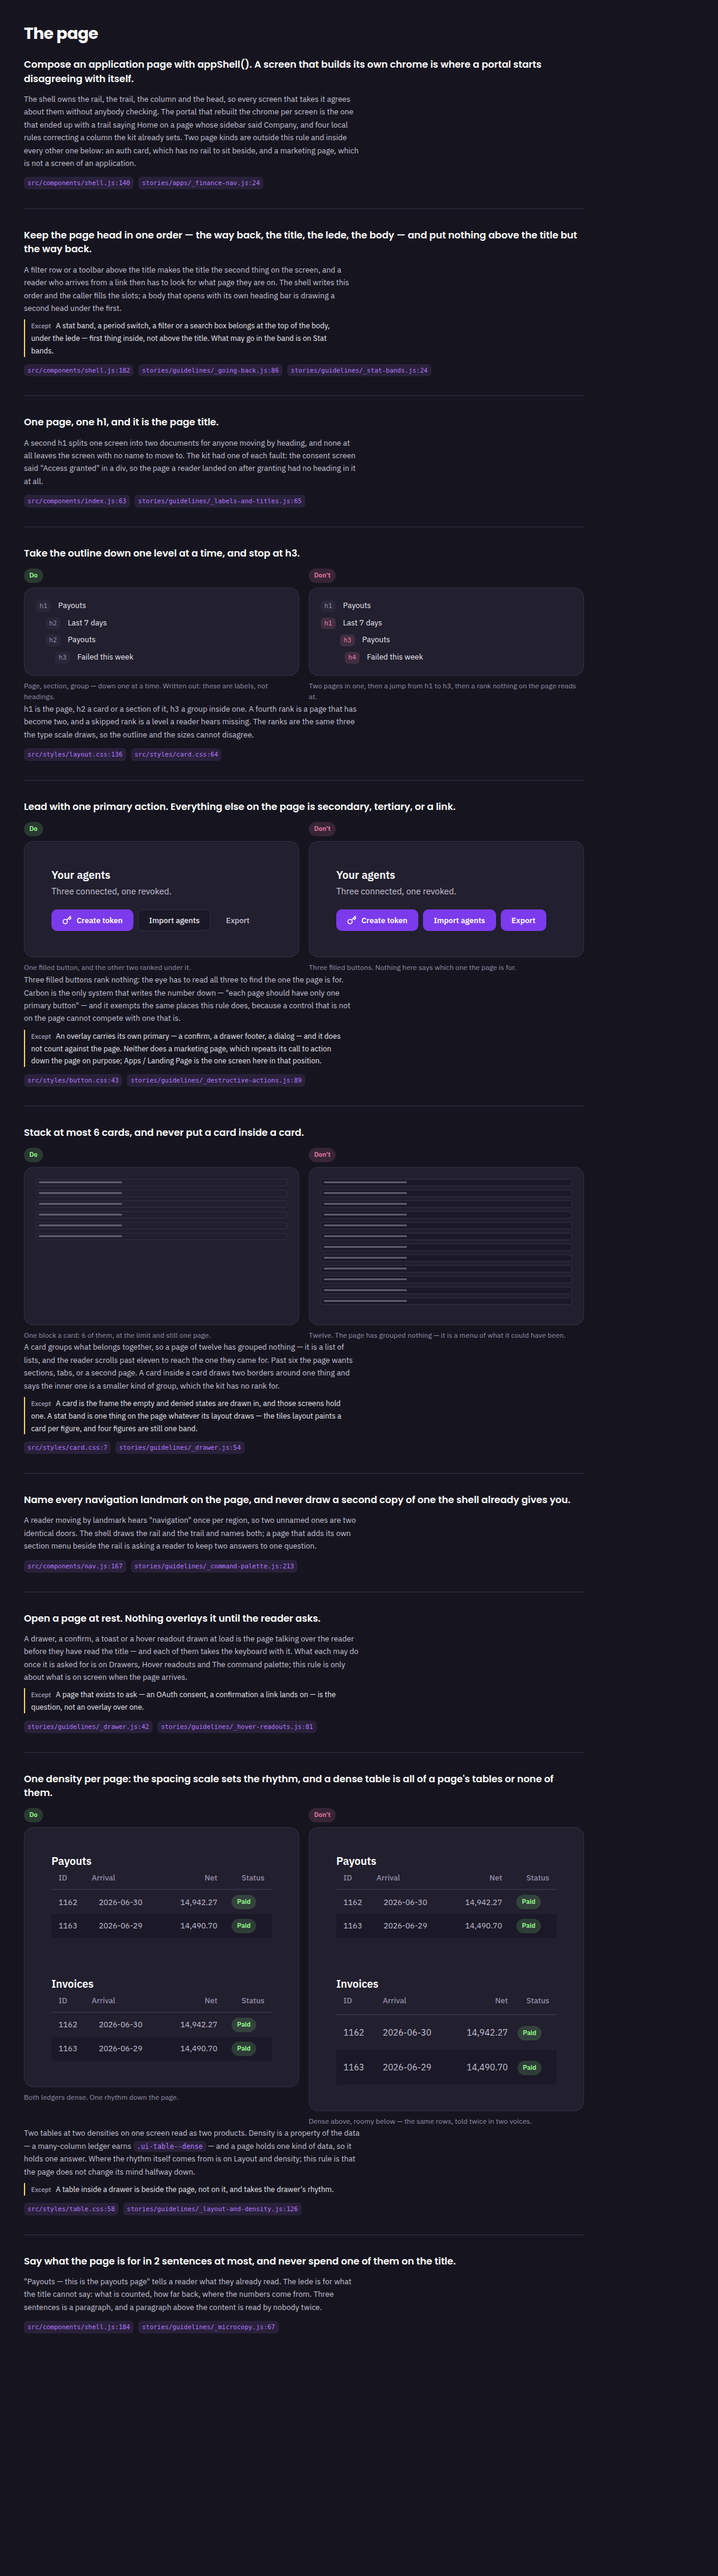
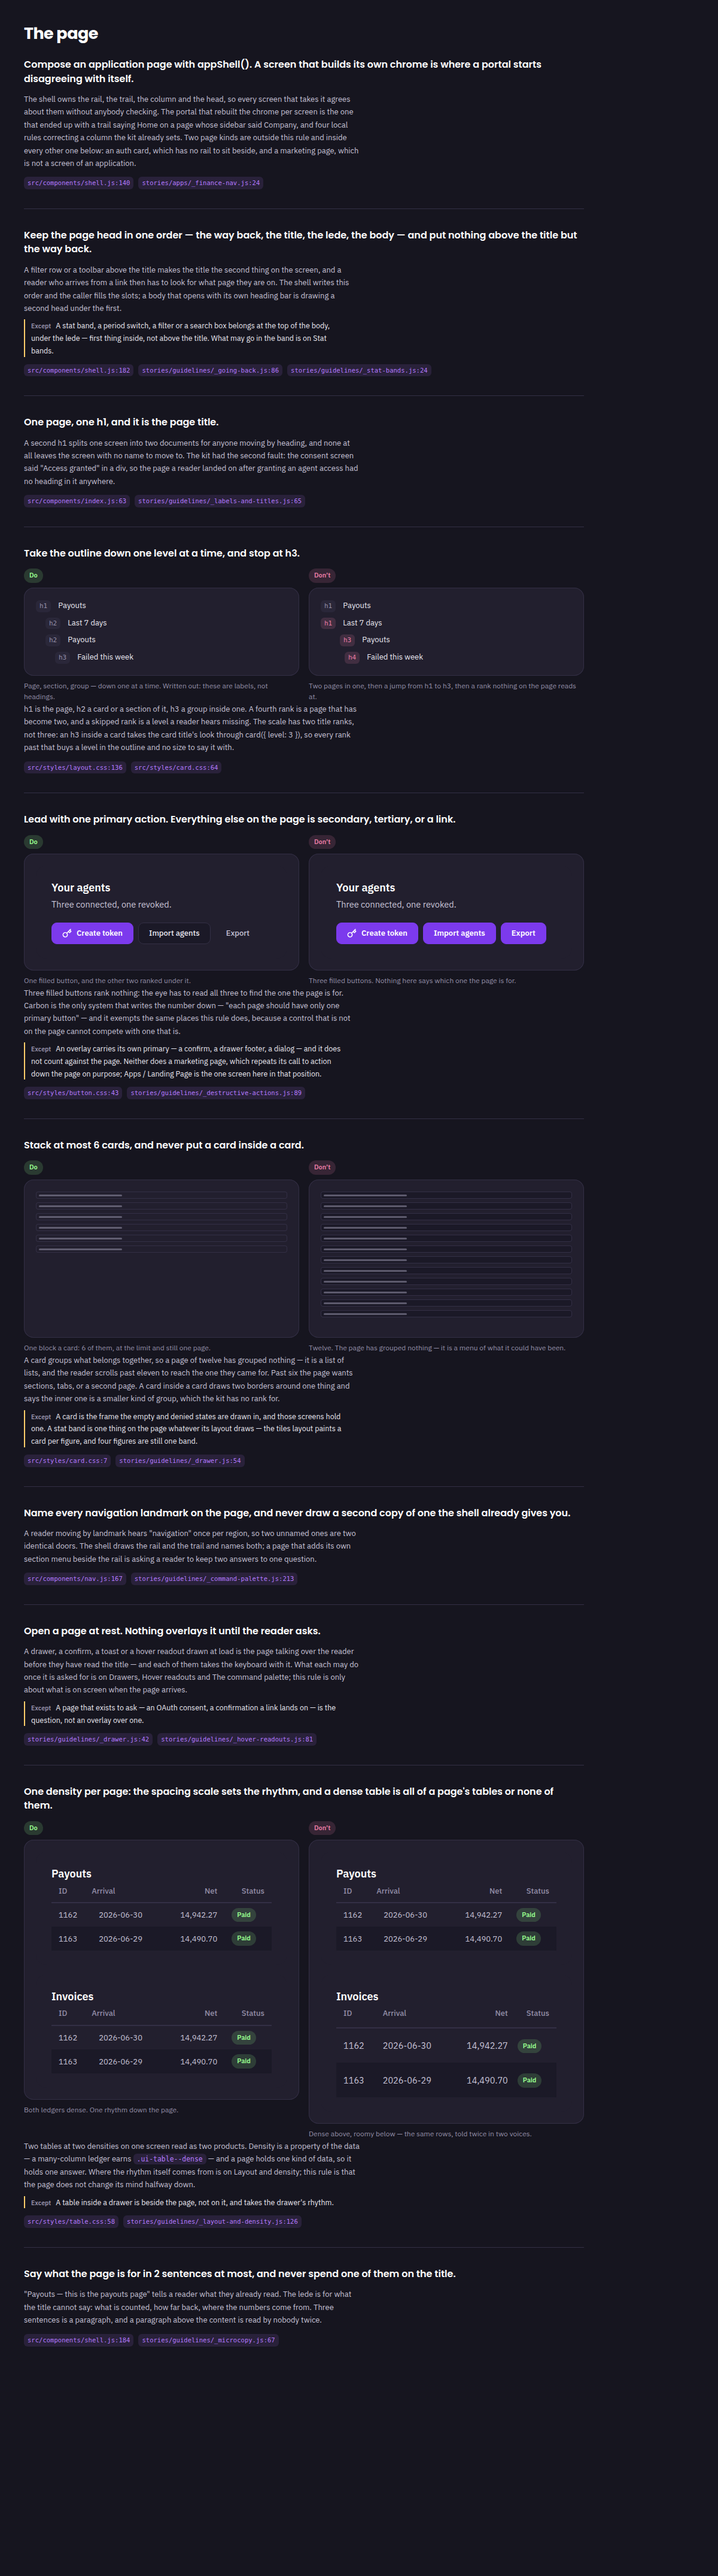
The page: the gate says it is an accessibility gate, and the PR body carries the runs (#275)
The floor page lists this gate, and the floor page's own list is discovered from
what a test file says about itself — so the file has to say it. Evidence
screenshots redrawn against the final text; PR.md carries both full runs.

Claude-Session: https://claude.ai/code/session_017CBE3Ut36cRg3sU16zw2A5

diff --git a/stories/guidelines/the-page.test.js b/stories/guidelines/the-page.test.js
@@ -4,7 +4,9 @@
  * than listed. Each rule on the page owns one check here, keyed by its `id`,
  * and the first test holds the two lists in step.
  *
- * What it cannot see is stated on the floor page, which lists this gate.
+ * The outline and the landmark names are accessibility questions, so this is
+ * one of the accessibility gates the floor page lists — and what it cannot
+ * see is stated there with the rest.
  *
  * why: docs/specification.md#the-page
  * why: CONTRIBUTING.md#a-gate-discovers-its-subjects-and-never-enumerates-them

diff --git a/PR.md b/PR.md
@@ -169,7 +169,7 @@ the class is the look.
 - **Three page kinds**, classified from the markup: an application page (the shell's `<main>`),
   an auth card, a marketing page. A screen that is none of them fails the `shell` rule, which is
   what "do not build your own chrome" means mechanically.
-- **The three numbers live in one place.** `LIMITS` in `_the-page.js` is read by the prose *and*
+- **The four numbers live in one place.** `LIMITS` in `_the-page.js` is read by the prose *and*
   by the gate, so a limit edited in the sentence and not in the check cannot happen.
 - **What it cannot see** is stated in the gate and on *The accessibility floor*, which now lists
   it: it resolves no CSS, it does not read what the headings say, and a consumer's own page is
@@ -179,8 +179,8 @@ the class is the look.
 fault — a page with no chrome, a toolbar above the title, two `h1`s, an `h1 → h3` jump, two
 primary buttons, seven cards, a card in a card, an unnamed `<nav>`, a second `<nav>` named
 "Finance", a drawer drawn at load, a dense table beside a roomy one, a three-sentence lede.
-All twelve checks failed, each naming its own story and its own fault, and nothing else. The
-file was deleted; the transcript is in the PR thread.
+All ten rule checks went red, each naming the story that broke it and the fault, and nothing
+else did. The file was deleted.
 
 ## Discoverable where consumers look
 
@@ -199,7 +199,7 @@ file was deleted; the transcript is in the PR thread.
 
 **The page itself** — `Guidelines / The page`, rendered in both themes:
 `docs/evidence/the-page-guidelines-dark.png`, `docs/evidence/the-page-guidelines-light.png`.
-Ten rules, four specimen pairs, twenty citations.
+Ten rules, four specimen pairs, twenty-one citations.
 
 **The two faults** — `docs/evidence/the-page-fixes-dark.png`,
 `docs/evidence/the-page-fixes-light.png`. Top: the consent screen's title as a `div` and as an
@@ -219,16 +219,27 @@ move — and the page loads the same two families at the same five weights as ev
 which is the gate's other rule and caught my first draft loading IBM Plex Sans at three.
 
 `stories/contrast.test.js` → *"the walk has not run away with the clock"* fails on this box, on
-`main` and on this branch alike, under the load of a parallel run. It is a wall-clock ceiling, not
-a measurement of the kit. Both runs below are reported with it.
+`main` and on this branch alike. It is a wall-clock ceiling of 120s over the contrast walk, and
+this machine is slower than the laptop the ceiling was measured on: **206.7s on `7ffbde4`** and
+**141.6s here**, in runs made minutes apart. Nothing else about the walk changed — it measures the
+same elements plus the new page's specimens, and every one of them passes.
 
 ## The gates
 
 ```
-                        before (7ffbde4)      after
-root  npm test          BEFORE_ROOT           AFTER_ROOT
-react npm test          322 passing           322 passing
+                       before (7ffbde4)                 after
+root npm test          1397 tests, 1394 pass            1412 tests, 1410 pass
+                       1 fail (the clock, 206.7s)       1 fail (the clock, 141.6s)
+                       2 skipped                        1 skipped
 ```
+
+The skip count moves because one of the two is `overview.test.js`'s built-ids check, which skips
+when `storybook-static/` is absent and ran here against a fresh build. The fifteen new tests are
+the twelve in `the-page.test.js`, the two `refs.test.js` subtests for the new page, and axe's run
+over the new story.
+
+Nothing under `react/` is touched by this change; its suite was run anyway and passes — 16 files,
+322 tests, 0 failing.
 
 `npm run build` (the React workspace, tsup + dts): success.
 `npm run build-storybook`: success, and `overview.test.js`'s built-ids check ran against it.
